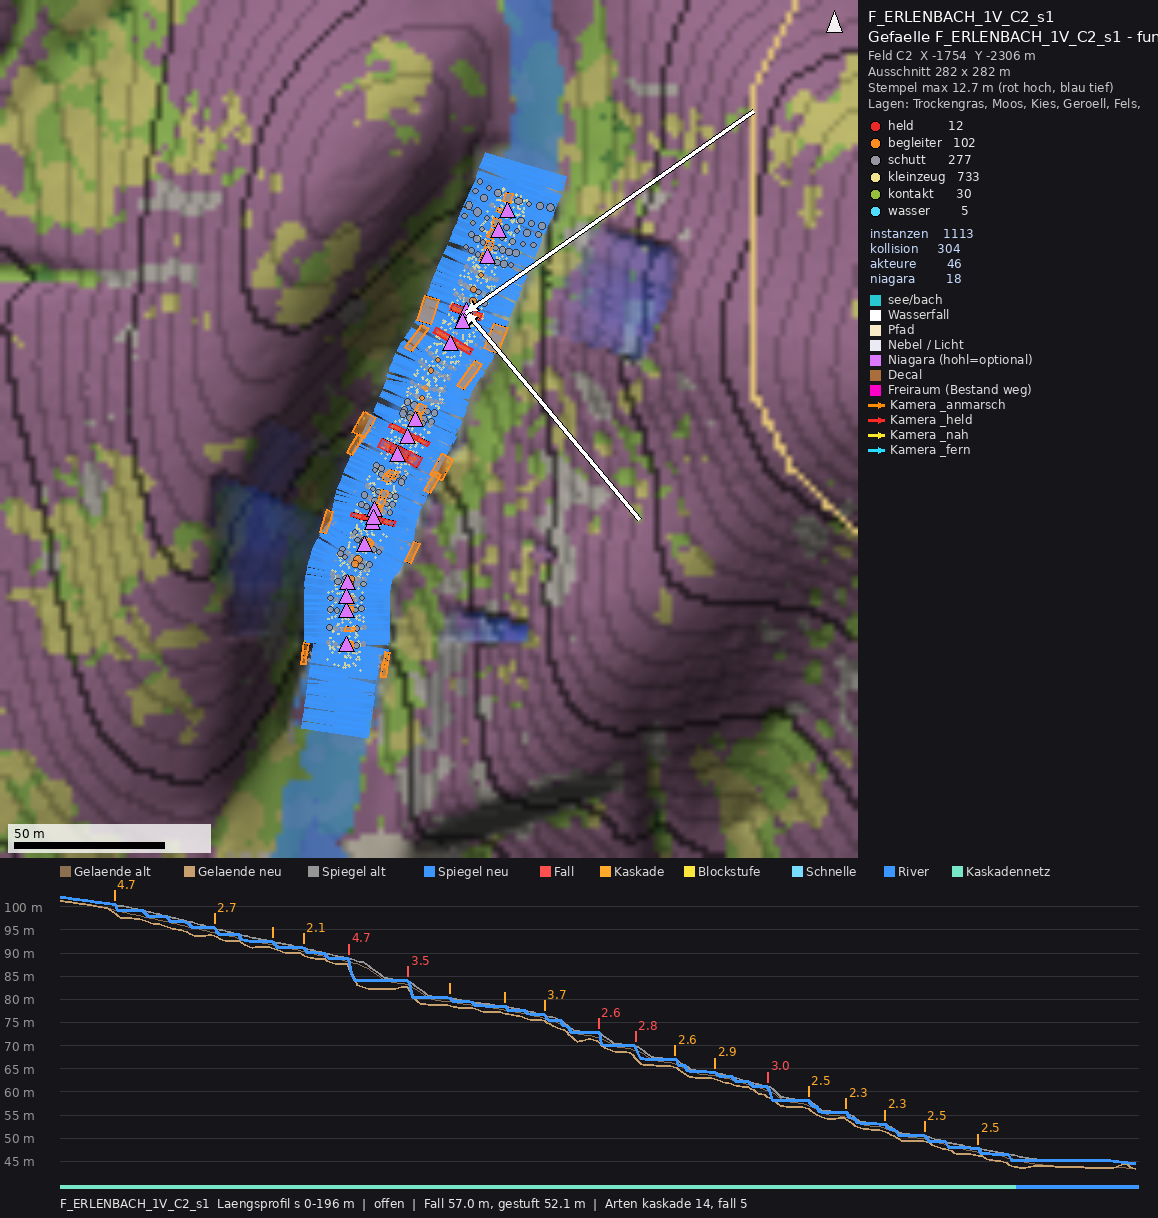
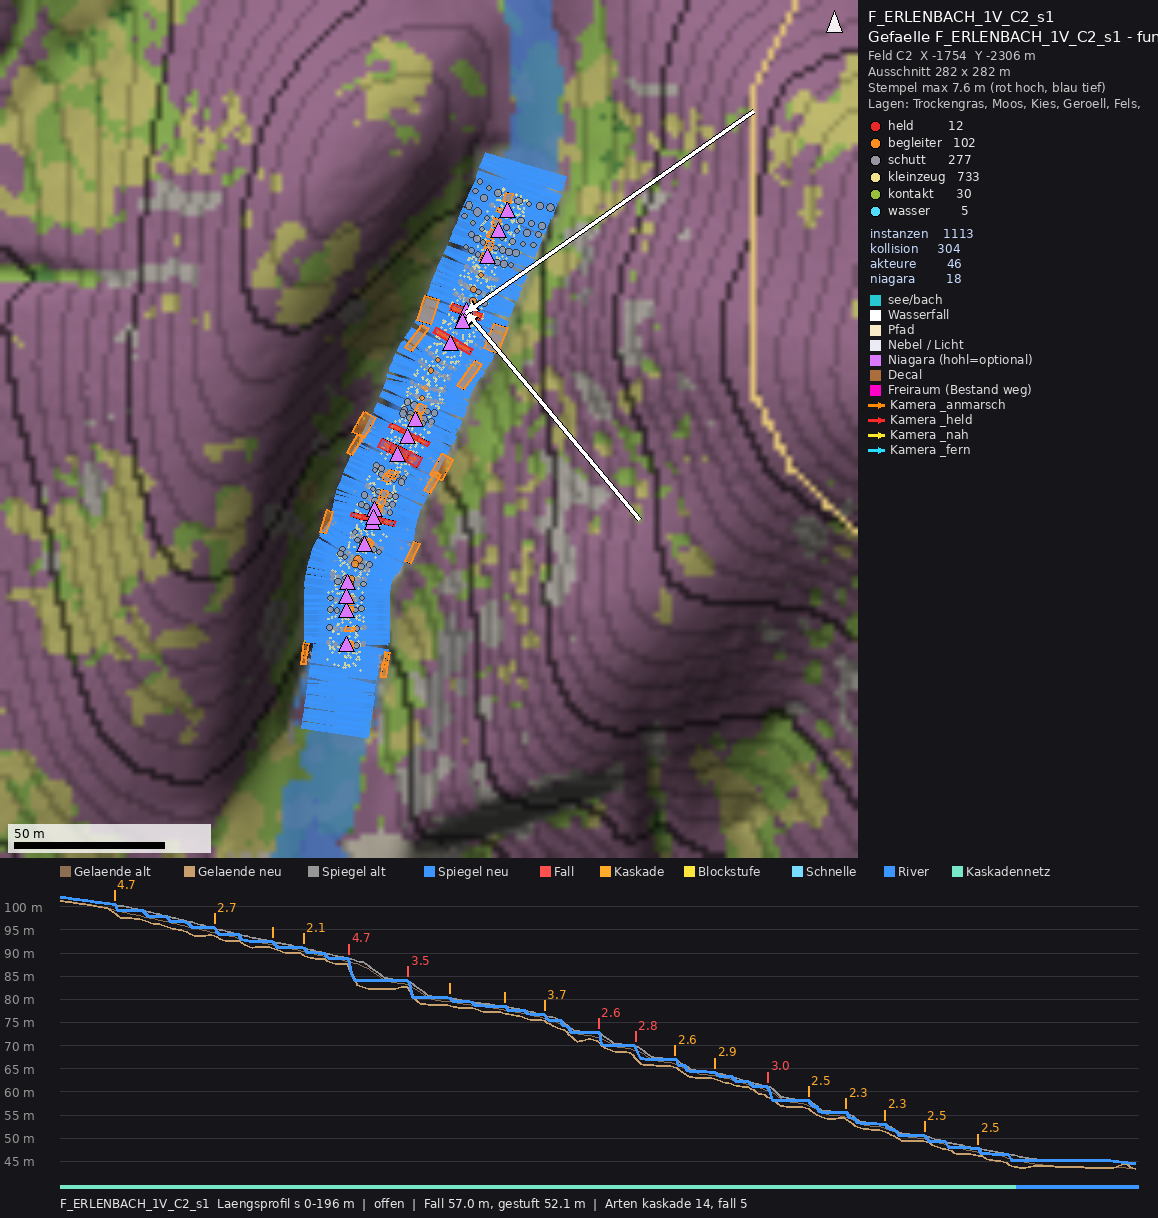
Auftrag 15e: Abtrag ausserhalb der Wasserbreite auf die Eintiefung begrenzt (C2 ohne Abgrabungen > 20 m), Lagen ueber das ganze Delta, neue Pruefregeln, Vorfassung
Claude-Session: https://claude.ai/code/session_012h1LYW6NJeQxhd7im8Kkes

diff --git a/recherche/antworten/skripte/gefaelle/gefaelle_plan.py b/recherche/antworten/skripte/gefaelle/gefaelle_plan.py
@@ -753,7 +753,7 @@ def spiegel_bei(sp, s):
 # Gelaende
 # ======================================================================================================================
 RING = {"vorlauf_m": 1.5, "ueber_spiegel_m": 0.15, "breite_m": 1.5, "auslauf": 0.5, "breite_aenderung": 0.2,
-        "kante_m": 0.5}   # 15b: Uferring am Netzrand
+        "kante_m": 0.5, "abtrag_zuschlag_m": 0.5}   # 15b: Uferring am Netzrand
 
 
 def ufer_z(sp, s):
@@ -771,6 +771,22 @@ def wasserkante(half):
     Netzrand unter Spiegel + 0,1 m)."""
     half = np.asarray(half, np.float64)
     return half - np.minimum(RING["kante_m"], np.maximum(0.3, 0.3 * half))
+
+
+def abtrag_grenze(pr, sp, s):
+    """15e: Absenkung (Eintiefung) des Spiegels an s = alter Spiegel - neuer Spiegel (>= 0). Ausserhalb der
+    Wasserbreite darf das Ufer nur so weit abgetragen werden, wie diese Eintiefung es verlangt."""
+    s = np.asarray(s, np.float64)
+    return np.maximum(np.interp(s, pr.s, pr.z0) - spiegel_bei(sp, s), 0.0)
+
+
+def aussen_begrenzen(T, d, half, cur, eint):
+    """15e: Abtrag ausserhalb der halben Breite hoechstens (Eintiefung + 0,5 m) - (d - halbe Breite) * tan 35 deg.
+    Ohne diese Grenze schnitt die 35-deg-Boeschung jeden steileren Hang bis 60 m neben dem Bach an (C2: Quadrat am
+    Osthang, Baender bei s 150-160, bis 12,7 m). Nie tiefer als das Querprofil (Ufer am Netzrand bleibt sicher)."""
+    erlaubt = np.maximum(eint + RING["abtrag_zuschlag_m"] - np.maximum(d - half, 0.0) * np.tan(np.radians(
+        BOESCHUNG_GRAD)), 0.0)
+    return np.where(d > half, np.maximum(T, cur - erlaubt), T)
 
 
 def profil_T(d, half, bett, z_sp, z_ufer, winkel):
@@ -850,8 +866,9 @@ def gelaende_abschnitt(ctx_g, pr, sp, stufen, seg_a, seg_b, breite_fn, winkel_fn
     half = Bw / 2.0
     z_sp = spiegel_bei(sp, s)
     bett = bett_profil(pr, sp, stufen, seg_a, seg_b, s, z_sp)
-    T = profil_T(d, half, bett, z_sp, ufer_z(sp, s), winkel_fn(s))
     cur = h0[band]
+    T = aussen_begrenzen(profil_T(d, half, bett, z_sp, ufer_z(sp, s), winkel_fn(s)), d, half, cur,
+                         abtrag_grenze(pr, sp, s))
     neu = np.where(innen, np.minimum(cur, T), cur)
     # Uferring (15b): ausserhalb der Wasserbreite bis Netzrand + 1,5 m mindestens Spiegel + 0,15 m, dann 1:2 auslaufen;
     # hebt nur, wo das Ufer zu niedrig ist, hoechstens 1 m (kein Damm ueber Rinnen)
@@ -947,7 +964,8 @@ def feinschliff_1m(K, st, pr, sp, stufen_ab, segs, breite_fn, winkel_fn, muendun
         z_sp = spiegel_bei(sp, s)
         zu = ufer_z(sp, s)
         bett = bett_profil(pr, sp, stufen_ab, a, b, s, z_sp)
-        T = profil_T(d, half, bett, z_sp, zu, winkel_fn(s))
+        T = aussen_begrenzen(profil_T(d, half, bett, z_sp, zu, winkel_fn(s)), d, half, alt[box],
+                             abtrag_grenze(pr, sp, s))
         wasser = innen & (d < half)
         w_ = wz[box]
         wz[box] = np.where(wasser, np.minimum(w_, np.minimum(alt[box], T)), w_)
@@ -967,6 +985,38 @@ def feinschliff_1m(K, st, pr, sp, stufen_ab, segs, breite_fn, winkel_fn, muendun
     st.delta_1m = Fn - alt
     st.delta_1m[np.abs(st.delta_1m) < 0.005] = 0.0
     return st.delta_1m
+
+
+def schreibe_lagen_1m(lg, st, ordner, ort_id, ersatz):
+    """Wie Lagen.schreibe (1 m), dazu 15e: jede Zelle mit |Delta| > 0,3 m bekommt eine Lage - wo keine Zone sie
+    abdeckt (auch jenseits einer Feldgrenze), die erste Lage der Zone 'ufer_nah' des Bioms."""
+    from sehens_lib import stempel as stm
+    fl = [int(v) for v in lg.fe.fenster_ij_1m()]
+    li0, lj0, lh, lw = fl
+    arr = {n: stm.nach_1m(lg.ziel[n], lg.z) for n in lg.ziel}
+    summe = np.zeros((lh, lw))
+    for a in arr.values():
+        summe += np.clip(np.rint(a), 0, 255)
+    d1 = getattr(st, "delta_1m", None)
+    if d1 is not None:
+        si0, sj0, sh, sw = [int(v) for v in st.fe.fenster_ij_1m()]
+        stark = np.zeros((lh, lw), bool)
+        i_a, i_b = max(si0, li0), min(si0 + sh, li0 + lh)
+        j_a, j_b = max(sj0, lj0), min(sj0 + sw, lj0 + lw)
+        if i_b > i_a and j_b > j_a:
+            stark[i_a - li0:i_b - li0, j_a - lj0:j_b - lj0] = np.abs(d1[i_a - si0:i_b - si0, j_a - sj0:j_b - sj0]) > 0.3
+        leer = stark & (summe < 1.0)
+        if leer.any():
+            arr[ersatz] = np.where(leer, 200.0, arr.get(ersatz, np.zeros((lh, lw))))
+    namen = [n for n in stm.LAGEN if n in arr and float(arr[n].max()) >= 1.0]
+    if not namen:
+        return None
+    rel = "lagen/%s_" % ort_id
+    for n in namen:
+        pf = os.path.join(ordner, rel + n + ".r8")
+        os.makedirs(os.path.dirname(pf), exist_ok=True)
+        np.ascontiguousarray(np.clip(np.rint(arr[n]), 0, 255).astype(np.uint8)).tofile(pf)
+    return {"datei_praefix": rel, "fenster_ij": fl, "lagen": namen}
 
 
 def schreibe_1m(st, ordner, ort_id):
@@ -2349,7 +2399,9 @@ def plane_lauf(lauf_id, K, strecken_ids=None):
     for kx in kontexte:
         ctx = kx["ctx"]
         blk = schreibe_1m(ctx.stempel, aus_lauf, kx["id"])
-        lblk = ctx.lagen.schreibe(aus_lauf, kx["id"])
+        lblk = schreibe_lagen_1m(ctx.lagen, ctx.stempel, aus_lauf, kx["id"],
+                                 (gr.lagen_zone(K["rw"], "ufer_nah", K["rw"].biom(kx["biom"])[1]["lagen"], None)[1]
+                                  or ["Geroell"])[0])
         z = ebene.zaehle(kx["id"])
         ab_out.append({"id": kx["id"], "strecke": kx["strecke"], "biom": kx["biom"],
                        "felder": ctx.st["felder"], "segmente_m": [[_r(a, 2), _r(b, 2)] for a, b, _ in kx["segs"]],

diff --git a/recherche/antworten/skripte/gefaelle/gefaelle_pruefen.py b/recherche/antworten/skripte/gefaelle/gefaelle_pruefen.py
@@ -299,8 +299,57 @@ def pruefe_kameras(p, b, tag):
             b.append((WARNUNG, tag, "Pilot-Strecke %s ohne Kamera _vorher/_nachher" % st["id"]))
 
 
+def _lagen_summe(p, ordner):
+    """Alle Lagen aller Abschnitte als Liste (fenster_ij, Summe 0..255*n)."""
+    out = []
+    for ab in p.get("abschnitte") or []:
+        lg = ab.get("lagen")
+        if not lg:
+            continue
+        li0, lj0, lh, lw = lg["fenster_ij"]
+        s_ = np.zeros((lh, lw), np.float64)
+        for n in lg["lagen"]:
+            q = os.path.join(ordner, lg["datei_praefix"] + n + ".r8")
+            if os.path.exists(q) and os.path.getsize(q) == lh * lw:
+                s_ += np.fromfile(q, dtype=np.uint8).reshape(lh, lw)
+        out.append(((li0, lj0, lh, lw), s_))
+    return out
+
+
+def _erlaubte_zone(p, X, Y):
+    """15e: Abstand d zur neuen Wasserlinie und erlaubte Breite je Zelle: halbe Breite + Netzrand 0,4 + Uferring 1,5
+    + Boeschung fuer die Eintiefung ((alter - neuer Spiegel + 0,5 m) / tan 35 deg) + 1 m Rasterreserve; dazu die
+    Zufluss-Endstuecke (Breite/2 + 4 m). Klamm/Wandzonen stecken in der Breite."""
+    from gefaelle_plan import KN, RING, BOESCHUNG_GRAD
+    from sehens_lib import stempel as stm
+    N = np.asarray(p["spiegel_neu_cm"], np.float64)
+    P = N[:, :2] / 100.0
+    s_neu = np.asarray(p["spiegel_neu_s_m"], np.float64)
+    cum = _s_entlang(p["spiegel_neu_cm"])
+    d, s_p, _ = stm.polylinie_abstand(X, Y, P)
+    s = np.interp(s_p, cum, s_neu)
+    half = np.interp(s, s_neu, N[:, 3] / 200.0)
+    A = np.asarray(p["spiegel_alt_cm"], np.float64)
+    s_alt = _s_entlang(p["spiegel_alt_cm"])
+    z_alt = np.minimum.accumulate(A[:, 2]) / 100.0
+    eint = np.maximum(np.interp(s, s_alt, z_alt) - np.interp(s, s_neu, N[:, 2] / 100.0), 0.0)
+    # Eintiefung im Umkreis +-3 m (Fallkanten) als Maximum
+    eint = np.maximum.reduce([np.maximum(np.interp(s + ds, s_alt, z_alt) - np.interp(s + ds, s_neu, N[:, 2] / 100.0), 0.0)
+                              for ds in (-3.0, -1.5, 0.0, 1.5, 3.0)])
+    breite = half + KN["rand_ueberstand_m"] + RING["breite_m"] + (eint + RING["abtrag_zuschlag_m"]) / np.tan(
+        np.radians(BOESCHUNG_GRAD)) + 1.0
+    ok = d <= breite
+    for z_ in p.get("zufluesse") or []:
+        T_ = np.asarray(z_["punkte_neu_cm"], np.float64)
+        if len(T_) >= 2:
+            dz, _, _ = stm.polylinie_abstand(X, Y, T_[:, :2] / 100.0)
+            ok |= dz <= T_[0, 3] / 200.0 + 4.0
+    return ok, d
+
+
 def pruefe_gelaende(p, ordner, welt, orte, b, tag):
     from sehens_lib import gelaende as gel_mod
+    lagen_alle = _lagen_summe(p, ordner)
     for ab in p.get("abschnitte") or []:
         g = ab.get("gelaende")
         if not g:
@@ -330,6 +379,24 @@ def pruefe_gelaende(p, ordner, welt, orte, b, tag):
                 q = os.path.join(ordner, lg["datei_praefix"] + n + ".r8")
                 if not os.path.exists(q) or os.path.getsize(q) != lh * lw:
                     b.append((FEHLER, ab["id"], "Lagen-Datei fehlt/falsch: %s" % n))
+        # 15e: |Delta| > 0,3 m nur am Bach (Netzrand + Uferring + Boeschung der Eintiefung) und nie ohne Lage
+        stark = np.abs(a) > 0.3
+        if stark.any() and p.get("spiegel_neu_cm"):
+            ii_, jj_ = np.nonzero(stark)
+            Xs, Ys = (jj_ + j0) - 4730.5, (ii_ + i0) - 4060.5
+            ok, d_ = _erlaubte_zone(p, Xs, Ys)
+            if (~ok).any():
+                b.append((FEHLER, ab["id"], "Gelaende aendert sich um > 0,3 m abseits des Bachs: %d m2, bis %.1f m tief, "
+                          "%.0f m von der Wasserlinie (erlaubt: Netzrand + Uferring + Boeschung der Eintiefung)"
+                          % (int((~ok).sum()), float(np.abs(a[stark][~ok]).max()), float(d_[~ok].max()))))
+            gi, gj = ii_ + i0, jj_ + j0
+            hat = np.zeros(len(gi), bool)
+            for (li0, lj0, lh, lw), s_ in lagen_alle:
+                inn = (gi >= li0) & (gi < li0 + lh) & (gj >= lj0) & (gj < lj0 + lw)
+                hat[inn] |= s_[gi[inn] - li0, gj[inn] - lj0] > 0
+            if (~hat).any():
+                b.append((FEHLER, ab["id"], "%d Zellen mit |Delta| > 0,3 m ohne Lagenzuweisung (z. B. X %.0f Y %.0f)"
+                          % (int((~hat).sum()), float(Xs[~hat][0]), float(Ys[~hat][0]))))
         if welt is None:
             continue
         z = welt.zelle_m

diff --git a/recherche/antworten/15e-lagen-am-feldrand.md b/recherche/antworten/15e-lagen-am-feldrand.md
@@ -1,0 +1,30 @@
+# Antwort zu Auftrag 15e – Rechteckige Abgrabungen abseits des Bachs, Lagen an der Feldgrenze
+
+Stand 11.10.2026. **Vorfassung mit C2.** Die Endfassung mit allen Läufen und dem Commit-Hash folgt.
+
+## Kurzfazit C2
+
+**Ursache:** Die 35°-Uferböschung des Querprofils war eine Obergrenze für das Gelände bis 60 m neben dem Bach. Jeder
+Hang, der steiler als 35° ist, wurde deshalb abgeschnitten. Gerade Kanten entstanden am 60-m-Band und an den
+Segmentenden.
+
+**Behoben:** Außerhalb der Wasserbreite wird nur noch so viel abgetragen, wie die Eintiefung verlangt:
+(alter − neuer Spiegel + 0,5 m) − (Abstand − halbe Breite) · tan 35°.
+
+**C2 jetzt:**
+
+| Abstand zum Bach | Abtrag |
+|---|---|
+| 0–10 m | 6 583 m³ |
+| 10–20 m | 1 978 m³ |
+| über 20 m | **0 m³** |
+
+- Vorher lagen 50 % des Abtrags weiter als 30 m vom Bach entfernt.
+- Max. Δ jetzt 7,42 m (unter dem Fall), vorher 12,6 m.
+
+**Lagen:** Jede Zelle mit |Δ| > 0,3 m hat eine Lage, auch jenseits der Feldgrenze.
+
+**Unverändert gegenüber 15c:** Stufen, Spiegel, Wasserkörper, Effekte und Kameras. Geändert sind nur das Gelände, die
+Lagen und Instanzen am Hang (23 Dateien).
+
+**Prüfer:** 0 FEHLER, auch mit den neuen Regeln (Δ > 0,3 m nur am Bach, Lage für jede Δ-Zelle).
